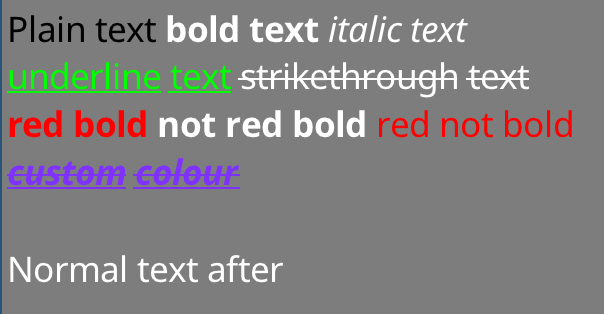
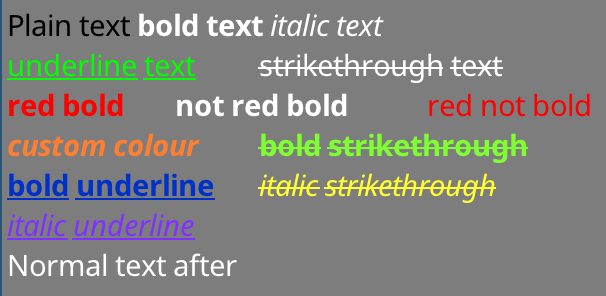
Fixed custom colours, added tab support

diff --git a/example.cpp b/example.cpp
@@ -80,19 +80,28 @@ int main(int argc, char**argv) {
 // 
 const std::string loremIpsum = "\"I can eat glass\" sample text:\n\nEuro Symbol: €.\nGreek: Μπορώ να φάω σπασμένα γυαλιά χωρίς να πάθω τίποτα.\nÍslenska / Icelandic: Ég get etið gler án þess að meiða mig.\nPolish: Mogę jeść szkło, i mi nie szkodzi.\nRomanian: Pot să mănânc sticlă și ea nu mă rănește.\nUkrainian: Я можу їсти шкло, й воно мені не пошкодить.\nArmenian: Կրնամ ապակի ուտել և ինծի անհանգիստ չըներ։\nGeorgian: მინას ვჭამ და არა მტკივა.\nHebrew: אני יכול לאכול זכוכית וזה לא מזיק לי.\nArabic: أنا قادر على أكل الزجاج و هذا لا يؤلمني.\nChinese: 我能吞下玻璃而不伤身体。\nChinese (Traditional): 我能吞下玻璃而不傷身體。 \nJapanese: 私はガラスを食べられます。それは私を傷つけません。\nKorean: 률로 정한다. 군사법원의 조직·권한 및 재판관의 자격은 법률로 정한다\nCJK Variants: 判 与 海 直 約 返 次 今 ";
 
+// Formatted text example
+// set (test = 5) to see
 sdl_stb_formatted_text formattedText;
 formattedText << sdl_stb_format::black << "Plain text "
 	<< sdl_stb_format::bold << "bold text "
 	<< sdl_stb_format::italic << "italic text\n"
-	<< sdl_stb_format::underline << sdl_stb_format::green << "underline text "
+	<< sdl_stb_format::underline << sdl_stb_format::green << "underline text\t"
 	<< sdl_stb_format::strikethrough << "strikethrough text\n"
-	<< sdl_stb_format::red << sdl_stb_format::bold << "red bold "
-	<< sdl_stb_format::bold << "not red bold "
+	<< sdl_stb_format::red << sdl_stb_format::bold << "red bold\t"
+	<< sdl_stb_format::bold << "not red bold\t"
 	<< sdl_stb_format::red << "red not bold\n"
-	<< sdl_stb_format::bold << sdl_stb_format::italic << sdl_stb_format::colour(255,127,50) << "custom colour";
-					
+	<< sdl_stb_format::bold << sdl_stb_format::italic			<< sdl_stb_format::colour(255,127, 50) << "custom colour\t"
+	<< sdl_stb_format::bold << sdl_stb_format::strikethrough	<< sdl_stb_format::colour(127,255, 50) << "bold strikethrough\n"
+	<< sdl_stb_format::bold << sdl_stb_format::underline		<< sdl_stb_format::colour(  0, 50,200) << "bold underline\t"
+	<< sdl_stb_format::italic << sdl_stb_format::strikethrough	<< sdl_stb_format::colour(255,255, 50) << "italic strikethrough\n"
+	<< sdl_stb_format::italic << sdl_stb_format::underline		<< sdl_stb_format::colour(127, 50,255) << "italic underline"
+	;
+	//sdl_stb_format::colour(255,127,50) 
 	sdl_stb_font_cache fc;
 	fc.faceSize = 24;
+	fc.tabWidthInSpaces = 12;	// Big value to make the effects obvious. For non-monospace fonts a value like this is good
+								// You can manually set fc.tabWidth after calling loadFont()
 	
 	// Ways to load font data:
 	// 1. Load a file into some container (such as a std::string)
@@ -164,7 +173,7 @@ formattedText << sdl_stb_format::black << "Plain text "
 	
 	// Rendering test
 	// Set this to something else to print
-	int test = 3;
+	int test = 5;
 	
 	
 	if (test == 1) {
@@ -250,7 +259,7 @@ formattedText << sdl_stb_format::black << "Plain text "
 			
 			SDL_SetRenderDrawColor(mSdlRenderer, 125, 125, 125, 255);
 			SDL_RenderClear(mSdlRenderer);
-			
+							
 			//prt.draw(mSdlRenderer, 5, 5); // Render without colour modification
 			prt.drawWithColorMod(mSdlRenderer, 5, 5, 255, 185, 80, 255); // Render in orange
 
@@ -302,7 +311,9 @@ formattedText << sdl_stb_format::black << "Plain text "
 		
 		sdl_stb_prerendered_text prt2;
 		fc.renderTextToObject(&prt2, "Normal text after"); // Render normal text to test that colors/style is not messed up
-				
+		
+		int numRows = fc.getNumberOfRows(formattedText);
+		
 		for (int i = 0;; ++i) {
 			SDL_Event ev;
 			while (SDL_PollEvent(&ev)) {
@@ -317,7 +328,7 @@ formattedText << sdl_stb_format::black << "Plain text "
 			SDL_RenderClear(mSdlRenderer);
 			
 			prt.draw(mSdlRenderer, 5, 5);
-			prt2.draw(mSdlRenderer, 5, 5 + fc.faceSize * 5); 
+			prt2.draw(mSdlRenderer, 5, 5 + fc.faceSize * (numRows)); 
 			
 			SDL_RenderPresent(mSdlRenderer);
 			

diff --git a/src/temp/example.cpp b/src/temp/example.cpp
@@ -62,19 +62,28 @@ int main(int argc, char**argv) {
 // 
 const std::string loremIpsum = "\"I can eat glass\" sample text:\n\nEuro Symbol: €.\nGreek: Μπορώ να φάω σπασμένα γυαλιά χωρίς να πάθω τίποτα.\nÍslenska / Icelandic: Ég get etið gler án þess að meiða mig.\nPolish: Mogę jeść szkło, i mi nie szkodzi.\nRomanian: Pot să mănânc sticlă și ea nu mă rănește.\nUkrainian: Я можу їсти шкло, й воно мені не пошкодить.\nArmenian: Կրնամ ապակի ուտել և ինծի անհանգիստ չըներ։\nGeorgian: მინას ვჭამ და არა მტკივა.\nHebrew: אני יכול לאכול זכוכית וזה לא מזיק לי.\nArabic: أنا قادر على أكل الزجاج و هذا لا يؤلمني.\nChinese: 我能吞下玻璃而不伤身体。\nChinese (Traditional): 我能吞下玻璃而不傷身體。 \nJapanese: 私はガラスを食べられます。それは私を傷つけません。\nKorean: 률로 정한다. 군사법원의 조직·권한 및 재판관의 자격은 법률로 정한다\nCJK Variants: 判 与 海 直 約 返 次 今 ";
 
+// Formatted text example
+// set (test = 5) to see
 sdl_stb_formatted_text formattedText;
 formattedText << sdl_stb_format::black << "Plain text "
 	<< sdl_stb_format::bold << "bold text "
 	<< sdl_stb_format::italic << "italic text\n"
-	<< sdl_stb_format::underline << sdl_stb_format::green << "underline text "
+	<< sdl_stb_format::underline << sdl_stb_format::green << "underline text\t"
 	<< sdl_stb_format::strikethrough << "strikethrough text\n"
-	<< sdl_stb_format::red << sdl_stb_format::bold << "red bold "
-	<< sdl_stb_format::bold << "not red bold "
+	<< sdl_stb_format::red << sdl_stb_format::bold << "red bold\t"
+	<< sdl_stb_format::bold << "not red bold\t"
 	<< sdl_stb_format::red << "red not bold\n"
-	<< sdl_stb_format::bold << sdl_stb_format::italic << sdl_stb_format::colour(255,127,50) << "custom colour";
-					
+	<< sdl_stb_format::bold << sdl_stb_format::italic			<< sdl_stb_format::colour(255,127, 50) << "custom colour\t"
+	<< sdl_stb_format::bold << sdl_stb_format::strikethrough	<< sdl_stb_format::colour(127,255, 50) << "bold strikethrough\n"
+	<< sdl_stb_format::bold << sdl_stb_format::underline		<< sdl_stb_format::colour(  0, 50,200) << "bold underline\t"
+	<< sdl_stb_format::italic << sdl_stb_format::strikethrough	<< sdl_stb_format::colour(255,255, 50) << "italic strikethrough\n"
+	<< sdl_stb_format::italic << sdl_stb_format::underline		<< sdl_stb_format::colour(127, 50,255) << "italic underline"
+	;
+	//sdl_stb_format::colour(255,127,50) 
 	sdl_stb_font_cache fc;
 	fc.faceSize = 24;
+	fc.tabWidthInSpaces = 12;	// Big value to make the effects obvious. For non-monospace fonts a value like this is good
+								// You can manually set fc.tabWidth after calling loadFont()
 	
 	// Ways to load font data:
 	// 1. Load a file into some container (such as a std::string)
@@ -146,7 +155,7 @@ formattedText << sdl_stb_format::black << "Plain text "
 	
 	// Rendering test
 	// Set this to something else to print
-	int test = 3;
+	int test = 5;
 	
 	
 	if (test == 1) {
@@ -232,7 +241,7 @@ formattedText << sdl_stb_format::black << "Plain text "
 			
 			SDL_SetRenderDrawColor(mSdlRenderer, 125, 125, 125, 255);
 			SDL_RenderClear(mSdlRenderer);
-			
+							
 			//prt.draw(mSdlRenderer, 5, 5); // Render without colour modification
 			prt.drawWithColorMod(mSdlRenderer, 5, 5, 255, 185, 80, 255); // Render in orange
 
@@ -284,7 +293,9 @@ formattedText << sdl_stb_format::black << "Plain text "
 		
 		sdl_stb_prerendered_text prt2;
 		fc.renderTextToObject(&prt2, "Normal text after"); // Render normal text to test that colors/style is not messed up
-				
+		
+		int numRows = fc.getNumberOfRows(formattedText);
+		
 		for (int i = 0;; ++i) {
 			SDL_Event ev;
 			while (SDL_PollEvent(&ev)) {
@@ -299,7 +310,7 @@ formattedText << sdl_stb_format::black << "Plain text "
 			SDL_RenderClear(mSdlRenderer);
 			
 			prt.draw(mSdlRenderer, 5, 5);
-			prt2.draw(mSdlRenderer, 5, 5 + fc.faceSize * 5); 
+			prt2.draw(mSdlRenderer, 5, 5 + fc.faceSize * (numRows)); 
 			
 			SDL_RenderPresent(mSdlRenderer);
 			

diff --git a/sdlStbFont.h b/sdlStbFont.h
@@ -188,12 +188,14 @@ public:
   int lineGap;
   int baseline;
   int rowSize;
+  int tabWidth;
   float scale;
   float underlineThickness;
   float strikethroughThickness;
   float underlinePosition;
   float strikethroughPosition;
   int faceSize;
+  int tabWidthInSpaces;
   SSF_MAP <uint64_t, sdl_stb_glyph> mGlyphs;
   sdl_stb_font_cache ();
   ~ sdl_stb_font_cache ();
@@ -304,9 +306,9 @@ void sdl_stb_format::combine (sdl_stb_format const & other)
 		a = 255*((a/255.0)*(other.a/255.0));
 		}
 sdl_stb_format sdl_stb_format::color (uint8_t const _r, uint8_t const _g, uint8_t const _b, uint8_t const _a)
-                                                                                                                  { return sdl_stb_format(_r,_g,_b,_a); }
+                                                                                                                  { return sdl_stb_format(FORMAT_NONE,_r,_g,_b,_a); }
 sdl_stb_format sdl_stb_format::colour (uint8_t const _r, uint8_t const _g, uint8_t const _b, uint8_t const _a)
-                                                                                                                   { return sdl_stb_format(_r,_g,_b,_a); }
+                                                                                                                   { return sdl_stb_format(FORMAT_NONE,_r,_g,_b,_a); }
 sdl_stb_format const sdl_stb_format::bold = sdl_stb_format(FORMAT_BOLD);
 sdl_stb_format const sdl_stb_format::italic = sdl_stb_format(FORMAT_ITALIC);
 sdl_stb_format const sdl_stb_format::underline = sdl_stb_format(FORMAT_UNDERLINE);
@@ -467,8 +469,8 @@ void sdl_stb_font_list::fetchFontForCodepoint (uint32_t const codepoint, uint8_t
 			}
 		}
 sdl_stb_font_cache::sdl_stb_font_cache ()
-  : mRenderer (NULL), ascent (0), descent (0), lineGap (0), baseline (0), rowSize (0), scale (1.f), faceSize (20), underlineThickness (1.0), strikethroughThickness (1.0), underlinePosition (0.0), strikethroughPosition (0.0)
-                                                                                                                         {}
+  : mRenderer (NULL), ascent (0), descent (0), lineGap (0), baseline (0), rowSize (0), tabWidth (1), scale (1.f), underlineThickness (1.0), strikethroughThickness (1.0), underlinePosition (0.0), strikethroughPosition (0.0), faceSize (20), tabWidthInSpaces (8)
+                                                  {}
 sdl_stb_font_cache::~ sdl_stb_font_cache ()
                                {
 		clearGlyphs();
@@ -509,6 +511,11 @@ void sdl_stb_font_cache::loadFont (char const * ttf_buffer, int index)
 		strikethroughPosition = baseline * 0.75 - strikethroughThickness/2;
 		underlineThickness = strikethroughThickness;
 		underlinePosition = baseline + underlineThickness;
+		
+		int w,h;
+		getTextSize(w,h,"                                                                                                                                ", tabWidthInSpaces <= 128 ? tabWidthInSpaces : 128);
+		tabWidth = w;
+		if (tabWidth < 1) tabWidth = 1;
 		}
 void sdl_stb_font_cache::loadFontManaged (sdl_stb_memory & memory, int index)
                                                                       {
@@ -734,7 +741,12 @@ int sdl_stb_font_cache::processString (int const x, int const y, char const * c,
 		
 		while (uChar && seek <= maxLen) {
 			int xxl = xx;
-			if (uChar == '\n') {
+			if (uChar == '\t') {
+				// Next tab position:
+				int nTabsSoFar = (xx - x)/tabWidth;
+				xx = x + (nTabsSoFar+1)*tabWidth;
+				}
+			else if (uChar == '\n') {
 				if (widthOut)
 					if (*widthOut < xx) *widthOut = xx;
 				hasNewlined = true;

diff --git a/src/temp/sdlStbFont.cpp b/src/temp/sdlStbFont.cpp
@@ -42,9 +42,9 @@ void sdl_stb_format::combine (sdl_stb_format const & other)
 		a = 255*((a/255.0)*(other.a/255.0));
 		}
 sdl_stb_format sdl_stb_format::color (uint8_t const _r, uint8_t const _g, uint8_t const _b, uint8_t const _a)
-                                                                                                                  { return sdl_stb_format(_r,_g,_b,_a); }
+                                                                                                                  { return sdl_stb_format(FORMAT_NONE,_r,_g,_b,_a); }
 sdl_stb_format sdl_stb_format::colour (uint8_t const _r, uint8_t const _g, uint8_t const _b, uint8_t const _a)
-                                                                                                                   { return sdl_stb_format(_r,_g,_b,_a); }
+                                                                                                                   { return sdl_stb_format(FORMAT_NONE,_r,_g,_b,_a); }
 sdl_stb_format const sdl_stb_format::bold = sdl_stb_format(FORMAT_BOLD);
 sdl_stb_format const sdl_stb_format::italic = sdl_stb_format(FORMAT_ITALIC);
 sdl_stb_format const sdl_stb_format::underline = sdl_stb_format(FORMAT_UNDERLINE);
@@ -205,8 +205,8 @@ void sdl_stb_font_list::fetchFontForCodepoint (uint32_t const codepoint, uint8_t
 			}
 		}
 sdl_stb_font_cache::sdl_stb_font_cache ()
-  : mRenderer (NULL), ascent (0), descent (0), lineGap (0), baseline (0), rowSize (0), scale (1.f), faceSize (20), underlineThickness (1.0), strikethroughThickness (1.0), underlinePosition (0.0), strikethroughPosition (0.0)
-                                                                                                                         {}
+  : mRenderer (NULL), ascent (0), descent (0), lineGap (0), baseline (0), rowSize (0), tabWidth (1), scale (1.f), underlineThickness (1.0), strikethroughThickness (1.0), underlinePosition (0.0), strikethroughPosition (0.0), faceSize (20), tabWidthInSpaces (8)
+                                                  {}
 sdl_stb_font_cache::~ sdl_stb_font_cache ()
                                {
 		clearGlyphs();
@@ -247,6 +247,11 @@ void sdl_stb_font_cache::loadFont (char const * ttf_buffer, int index)
 		strikethroughPosition = baseline * 0.75 - strikethroughThickness/2;
 		underlineThickness = strikethroughThickness;
 		underlinePosition = baseline + underlineThickness;
+		
+		int w,h;
+		getTextSize(w,h,"                                                                                                                                ", tabWidthInSpaces <= 128 ? tabWidthInSpaces : 128);
+		tabWidth = w;
+		if (tabWidth < 1) tabWidth = 1;
 		}
 void sdl_stb_font_cache::loadFontManaged (sdl_stb_memory & memory, int index)
                                                                       {
@@ -472,7 +477,12 @@ int sdl_stb_font_cache::processString (int const x, int const y, char const * c,
 		
 		while (uChar && seek <= maxLen) {
 			int xxl = xx;
-			if (uChar == '\n') {
+			if (uChar == '\t') {
+				// Next tab position:
+				int nTabsSoFar = (xx - x)/tabWidth;
+				xx = x + (nTabsSoFar+1)*tabWidth;
+				}
+			else if (uChar == '\n') {
 				if (widthOut)
 					if (*widthOut < xx) *widthOut = xx;
 				hasNewlined = true;

diff --git a/README.md b/README.md
@@ -50,6 +50,7 @@ How Do I?
 * [Caching Results in a Texture](#caching-results-in-a-texture)
 * [Print in Colours Other Than White](#print-in-colours-other-than-white)
 * [Get Where in a String a User has Clicked](#get-where-in-a-string-a-user-has-clicked)
+* [Handle Tabs](#handle-tabs)
 
 Formatted Text:
 * [Print Formatted Text?](#print-formatted-text)
@@ -230,6 +231,12 @@ Use `SDL_SetTextureColorMod` with a cached texture. Or use `sdl_stb_prerendered_
 Use `getCaretPos(text, relativeMouseX, relativeMouseY)`
 
 Note that this only currently supports carret lookup in strings without newlines - if you attempt this with a multiline string then it may return an incorrect value. 
+
+## Handle Tabs
+Tab width is handled by the variable `fc.tabWidth`. Characters after a tab will align to the next tab location.
+
+You can set `fc.tabWidthInSpaces = X` before calling `fc.loadFont(...)` to automatically set `fc.tabWidth` to some multiple of the space width. By default fonts are set to 8 spaces in width. Lower values are better for monospace fonts, higher values are better for non-monospace fonts.
+
 
 Formatted Text
 ==============
